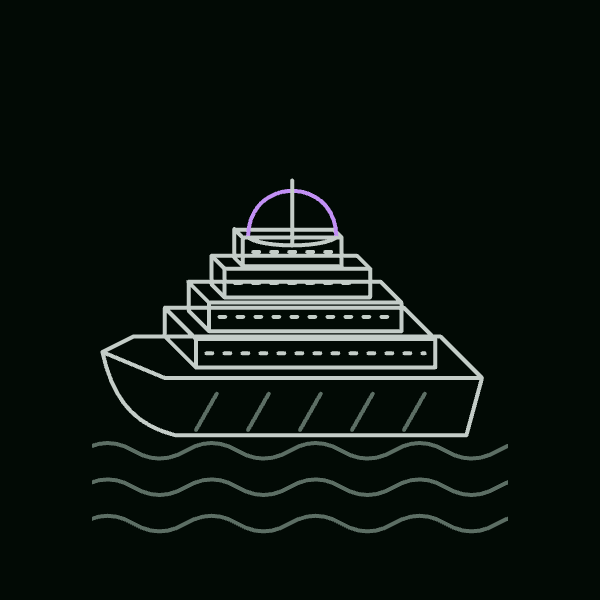
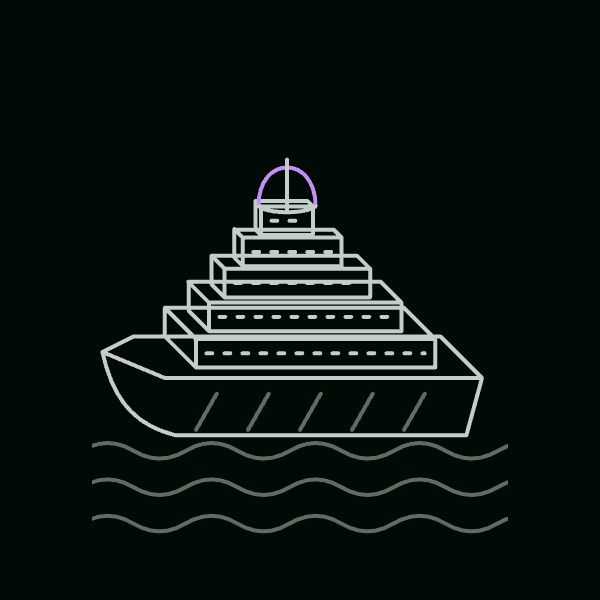
fix(art): give the Black Whale all five tiers
Claude-Session: https://claude.ai/code/session_018XDoqAeUxemrxHG8vErWvW

Changed region(s): [[0.39, 0.27, 0.57, 0.42]]

diff --git a/src/data/series/hunter-x-hunter/art/kakin-phase-2.ts b/src/data/series/hunter-x-hunter/art/kakin-phase-2.ts
@@ -193,16 +193,16 @@ const BLACK_WHALE: Stroke[] = [
   { d: 'M4 120 L28 130 H150 L134 114 H16 Z' },
   { d: 'M4 120 C8 138 16 148 32 152 H144 L150 130' },
   {
-    d: 'M40 126 H132 V115 H40 Z M40 126 l-12 -12 v-11 l12 12 M45 112 H119 V101 H45 Z M45 112 l-7.8 -7.8 v-11 l7.8 7.8 M51 99 H107 V88 H51 Z M51 99 l-5 -5 v-11 l5 5 M58 87 H96 V76 H58 Z M58 87 l-3.3 -3.3 v-11 l3.3 3.3',
+    d: 'M40 126 H132 V115 H40 Z M40 126 l-12 -12 v-11 l12 12 M45 112 H119 V101 H45 Z M45 112 l-7.8 -7.8 v-11 l7.8 7.8 M51 99 H107 V88 H51 Z M51 99 l-5 -5 v-11 l5 5 M58 87 H96 V76 H58 Z M58 87 l-3.3 -3.3 v-11 l3.3 3.3 M65 75 H85 V64 H65 Z M65 75 l-2.1 -2.1 v-11 l2.1 2.1',
   },
   {
-    d: 'M28 103 H120 L132 115 M37 93 H111 L119 101 M46 83 H102 L107 88 M55 73 H93 L96 76',
+    d: 'M28 103 H120 L132 115 M37 93 H111 L119 101 M46 83 H102 L107 88 M55 73 H93 L96 76 M62.9 61.9 H82.9 L85 64',
     role: 'soft',
   },
-  { d: 'M60 76 C60 52 94 52 94 76', role: 'accent' },
-  { d: 'M60 76 C66 80 88 80 94 76 M77 54 V79', role: 'soft' },
+  { d: 'M64 64 C64 44 86 44 86 64', role: 'accent' },
+  { d: 'M64 64 C68 67 82 67 86 64 M75 46 V66', role: 'soft' },
   {
-    d: 'M44 120.5 H128 M49 106.5 H115 M55 93.5 H103 M62 81.5 H92',
+    d: 'M44 120.5 H128 M49 106.5 H115 M55 93.5 H103 M62 81.5 H92 M69 69.5 H81',
     role: 'soft',
     dashed: true,
   },
